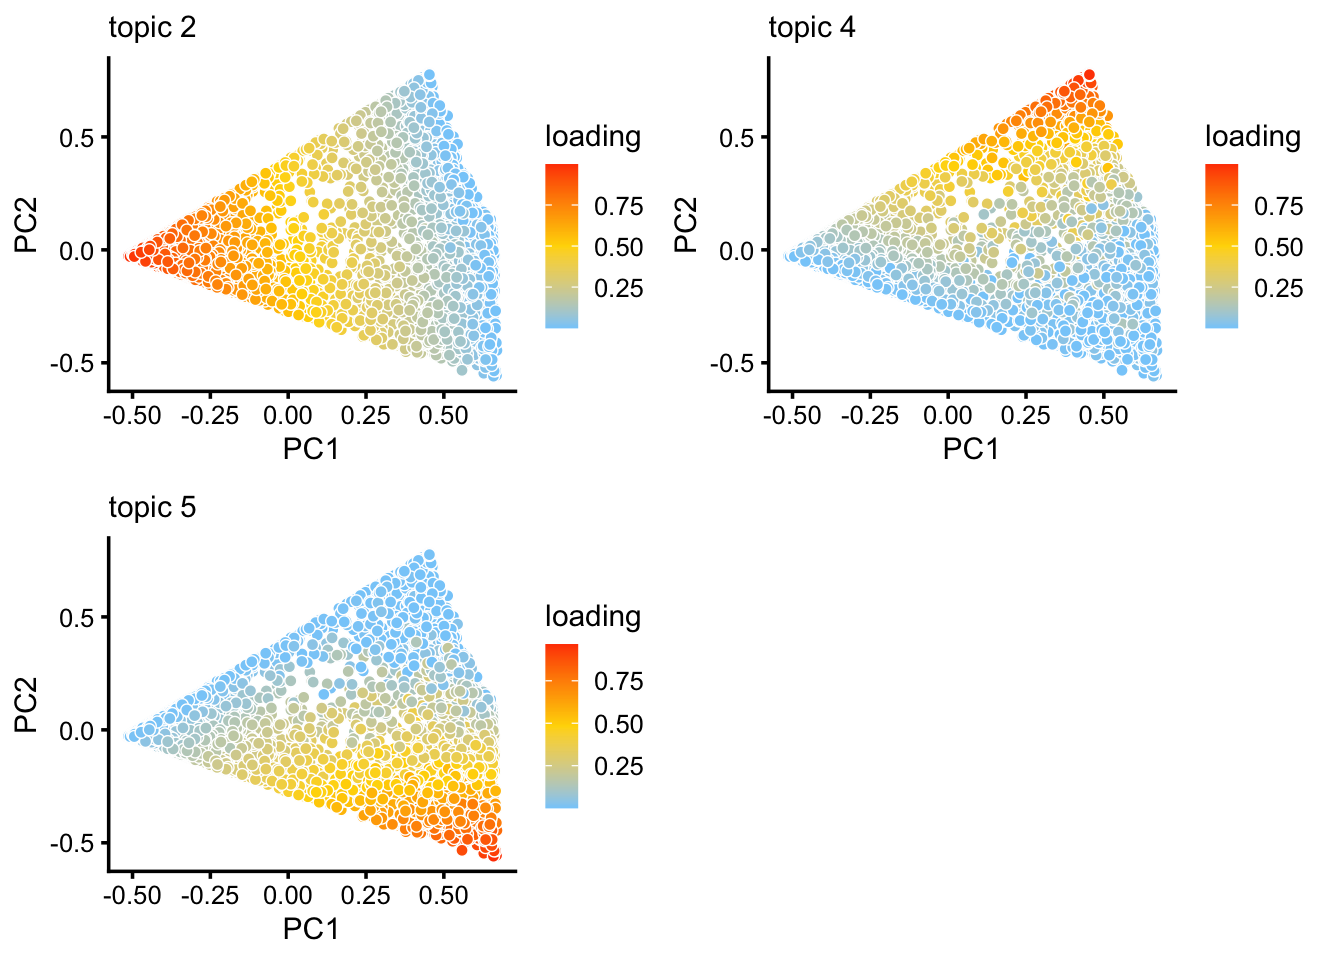
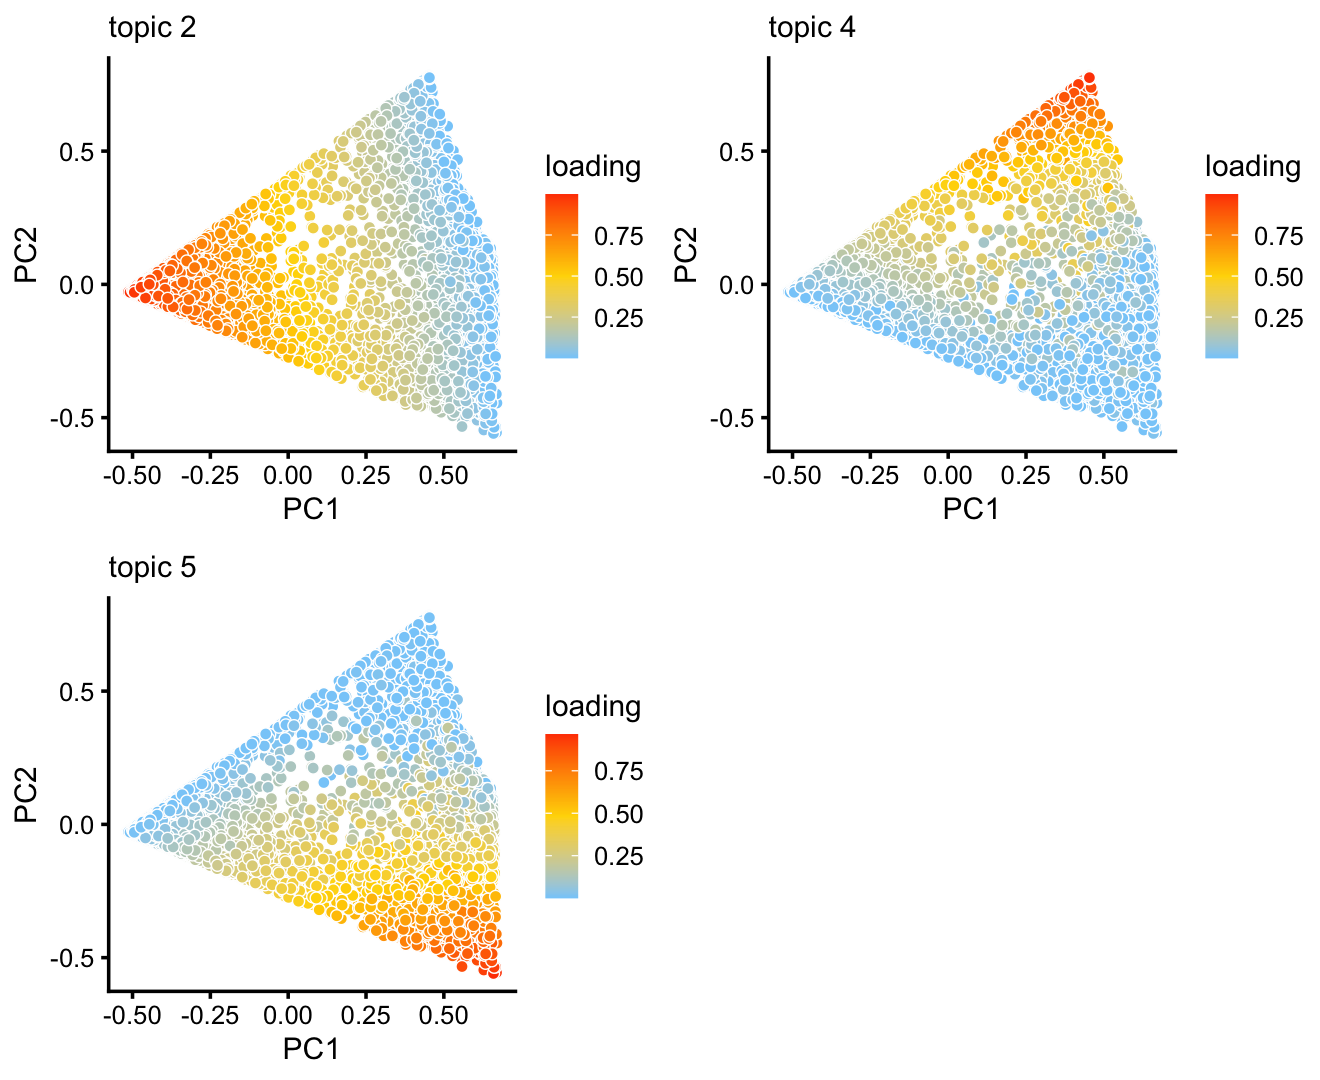
Added B+C cluster to clustering of droplet data, and added plot showing connection between topic 4 and Krt13 expression.

diff --git a/docs/clusters_droplet.html b/docs/clusters_droplet.html
@@ -323,7 +323,7 @@ $(document).ready(function () {
 <div class="tab-content">
 <div id="summary" class="tab-pane fade in active">
 <p>
-<strong>Last updated:</strong> 2020-09-20
+<strong>Last updated:</strong> 2020-09-21
 </p>
 <p>
 <strong>Checks:</strong> <span class="glyphicon glyphicon-ok text-success" aria-hidden="true"></span> 7 <span class="glyphicon glyphicon-exclamation-sign text-danger" aria-hidden="true"></span> 0
@@ -414,16 +414,16 @@ This reproducible <a href="http://rmarkdown.rstudio.com">R Markdown</a> analysis
 <div class="panel panel-default">
 <div class="panel-heading">
 <p class="panel-title">
-<a data-toggle="collapse" data-parent="#workflowr-checks" href="#strongRepositoryversionstrongahrefhttpsgithubcomstephenslabsinglecelltopicstreeb7d1acccebb866981644a966589476316006edd0targetblankb7d1acca"> <span class="glyphicon glyphicon-ok text-success" aria-hidden="true"></span> <strong>Repository version:</strong> <a href="https://github.com/stephenslab/single-cell-topics/tree/b7d1acccebb866981644a966589476316006edd0" target="_blank">b7d1acc</a> </a>
+<a data-toggle="collapse" data-parent="#workflowr-checks" href="#strongRepositoryversionstrongahrefhttpsgithubcomstephenslabsinglecelltopicstree69d1f0acfefba68a060ac2cf92be177a66c3e5e2targetblank69d1f0aa"> <span class="glyphicon glyphicon-ok text-success" aria-hidden="true"></span> <strong>Repository version:</strong> <a href="https://github.com/stephenslab/single-cell-topics/tree/69d1f0acfefba68a060ac2cf92be177a66c3e5e2" target="_blank">69d1f0a</a> </a>
 </p>
 </div>
[2 lines of base64/hex data omitted]
 <div class="panel-body">
 <p>
 Great! You are using Git for version control. Tracking code development and connecting the code version to the results is critical for reproducibility.
 </p>
 <p>
-The results in this page were generated with repository version <a href="https://github.com/stephenslab/single-cell-topics/tree/b7d1acccebb866981644a966589476316006edd0" target="_blank">b7d1acc</a>. See the <em>Past versions</em> tab to see a history of the changes made to the R Markdown and HTML files.
+The results in this page were generated with repository version <a href="https://github.com/stephenslab/single-cell-topics/tree/69d1f0acfefba68a060ac2cf92be177a66c3e5e2" target="_blank">69d1f0a</a>. See the <em>Past versions</em> tab to see a history of the changes made to the R Markdown and HTML files.
 </p>
 <p>
 Note that you need to be careful to ensure that all relevant files for the analysis have been committed to Git prior to generating the results (you can use <code>wflow_publish</code> or <code>wflow_git_commit</code>). workflowr only checks the R Markdown file, but you know if there are other scripts or data files that it depends on. Below is the status of the Git repository when the results were generated:
@@ -442,9 +442,6 @@ Ignored files:
     Ignored:    output/pbmc-purified/rds/
     Ignored:    output/pulseseq/fits-pulseseq.RData
     Ignored:    output/pulseseq/rds/
-
-Untracked files:
-    Untracked:  analysis/clustering-droplet.rds
 
 </code></pre>
 <p>
@@ -483,6 +480,57 @@ Message
 </tr>
 </thead>
 <tbody>
+<tr>
+<td>
+Rmd
+</td>
+<td>
+<a href="https://github.com/stephenslab/single-cell-topics/blob/69d1f0acfefba68a060ac2cf92be177a66c3e5e2/analysis/clusters_droplet.Rmd" target="_blank">69d1f0a</a>
+</td>
+<td>
+Peter Carbonetto
+</td>
+<td>
+2020-09-21
+</td>
+<td>
+workflowr::wflow_publish(“clusters_droplet.Rmd”)
+</td>
+</tr>
+<tr>
+<td>
+Rmd
+</td>
+<td>
+<a href="https://github.com/stephenslab/single-cell-topics/blob/e2a807184032d94632431f14de8aeda1dd51637a/analysis/clusters_droplet.Rmd" target="_blank">e2a8071</a>
+</td>
+<td>
+Peter Carbonetto
+</td>
+<td>
+2020-09-20
+</td>
+<td>
+Saved new clustering-droplet.rds.
+</td>
+</tr>
+<tr>
+<td>
+html
+</td>
+<td>
+<a href="https://rawcdn.githack.com/stephenslab/single-cell-topics/b5e1a7e1b9f1357e79255b0d1fe780e995036c03/docs/clusters_droplet.html" target="_blank">b5e1a7e</a>
+</td>
+<td>
+Peter Carbonetto
+</td>
+<td>
+2020-09-20
+</td>
+<td>
+Fixed up Structure plot in clusters_droplet analysis.
+</td>
+</tr>
 <tr>
 <td>
 Rmd
@@ -669,11 +717,11 @@ library(cowplot)
 source(&quot;../code/plots.R&quot;)</code></pre>
 <div id="load-data-and-results" class="section level2">
 <h2>Load data and results</h2>
-<p>Load the droplet data. The UMI counts are not needed for this analysis.</p>
-<pre class="r"><code>load(&quot;../data/droplet.RData&quot;)
-rm(counts)</code></pre>
+<p>Load the droplet data.</p>
+<pre class="r"><code>load(&quot;../data/droplet.RData&quot;)</code></pre>
 <p>Load the <span class="math inline">\(k = 7\)</span> Poisson NMF model fit.</p>
 <pre class="r"><code>fit &lt;- readRDS(&quot;../output/droplet/rds/fit-droplet-scd-ex-k=7.rds&quot;)$fit</code></pre>
+<p><em>Add text here.</em></p>
 </div>
 <div id="identify-clusters-from-principal-components" class="section level2">
 <h2>Identify clusters from principal components</h2>
@@ -840,7 +888,7 @@ Peter Carbonetto
 </table>
 </div>
 </div>
-<p><em>Add text here.</em></p>
+<p>The variation in PCs 1 and 2 is mostly produced by topics 2, 4 and 5.</p>
 <pre class="r"><code>p9 &lt;- pca_plot(fit2,pcs = 1:2,k = c(2,4,5))
 print(p9)</code></pre>
 <p><img src="figure/clusters_droplet.Rmd/clustering-5-1.png" width="660" style="display: block; margin: auto;" /></p>
@@ -868,6 +916,17 @@ Date
 <tbody>
 <tr>
 <td>
+<a href="https://github.com/stephenslab/single-cell-topics/blob/b5e1a7e1b9f1357e79255b0d1fe780e995036c03/docs/figure/clusters_droplet.Rmd/clustering-5-1.png" target="_blank">b5e1a7e</a>
+</td>
+<td>
+Peter Carbonetto
+</td>
+<td>
+2020-09-20
+</td>
+</tr>
+<tr>
+<td>
 <a href="https://github.com/stephenslab/single-cell-topics/blob/417202458ee4055297b95a2ea3994a867c13866f/docs/figure/clusters_droplet.Rmd/clustering-5-1.png" target="_blank">4172024</a>
 </td>
 <td>
@@ -881,29 +940,27 @@ Peter Carbonetto
 </table>
 </div>
 </div>
-<p>We label the three more-or-less distinct subclusters as B, C and H, and assign the remaining samples to the background cluster.</p>
-<pre class="r"><code>pca &lt;- prcomp(fit2$L)$x
-y   &lt;- rep(&quot;U&quot;,nrow(pca))
-pc1 &lt;- pca[,1]
-pc2 &lt;- pca[,2]
-y[pc1 &lt; 0.1] &lt;- &quot;B&quot;
-y[pc1 &gt; 0.4 &amp; pc2 &lt; 0.45] &lt;- &quot;C&quot;
-y[pc2 &gt; 0.55] &lt;- &quot;H&quot;
-x[rows] &lt;- y</code></pre>
-<p>In summary, we have subdivided the droplet data into 7 subsets, including a background cluster (U).</p>
-<pre class="r"><code>colors &lt;- c(&quot;royalblue&quot;,&quot;forestgreen&quot;,&quot;firebrick&quot;,&quot;gold&quot;,&quot;turquoise&quot;,
-            &quot;darkorange&quot;,&quot;gainsboro&quot;)
-p10 &lt;- labeled_pca_plot(fit,1:2,x,colors,font_size = 8)
-p11 &lt;- labeled_pca_plot(fit,3:4,x,colors,font_size = 8)
-p12 &lt;- labeled_pca_plot(fit,5:6,x,colors,font_size = 8)
-plot_grid(p10,p11,p12,nrow = 1,ncol = 3)</code></pre>
-<p><img src="figure/clusters_droplet.Rmd/clustering-7-1.png" width="960" style="display: block; margin: auto;" /></p>
+<p>Topic 4 in particular corresponds closely to expression of <em>Krt13</em> which was identified as being uniquely expressed by transitional “hillock” cells.</p>
+<pre class="r"><code>pca  &lt;- prcomp(fit2$L)$x
+pc1  &lt;- pca[,1]
+pc2  &lt;- pca[,2]
+pdat &lt;- data.frame(PC1   = pc1,
+                   PC2   = pc2,
+                   Krt13 = log10(counts[rows,&quot;Krt13&quot;]))
+p10 &lt;- ggplot(pdat,aes(x = PC1,y = PC2,fill = Krt13)) +
+  geom_point(shape = 21,color = &quot;white&quot;,size = 1.25) +
+  scale_fill_gradientn(colors = c(&quot;skyblue&quot;,&quot;gold&quot;,&quot;darkorange&quot;,&quot;magenta&quot;),
+                        na.value = &quot;lightskyblue&quot;) +
+  theme_cowplot(font_size = 10) +
+  labs(fill = &quot;log10 expression level&quot;)
+print(p10)</code></pre>
+<p><img src="figure/clusters_droplet.Rmd/clustering-6-1.png" width="420" style="display: block; margin: auto;" /></p>
 <p>
-<button type="button" class="btn btn-default btn-xs btn-workflowr btn-workflowr-fig" data-toggle="collapse" data-target="#fig-clustering-7-1">
-Past versions of clustering-7-1.png
+<button type="button" class="btn btn-default btn-xs btn-workflowr btn-workflowr-fig" data-toggle="collapse" data-target="#fig-clustering-6-1">
+Past versions of clustering-6-1.png
 </button>
 </p>
-<div id="fig-clustering-7-1" class="collapse">
+<div id="fig-clustering-6-1" class="collapse">
 <div class="table-responsive">
 <table class="table table-condensed table-hover">
 <thead>
@@ -922,7 +979,7 @@ Date
 <tbody>
 <tr>
 <td>
-<a href="https://github.com/stephenslab/single-cell-topics/blob/417202458ee4055297b95a2ea3994a867c13866f/docs/figure/clusters_droplet.Rmd/clustering-7-1.png" target="_blank">4172024</a>
+<a href="https://github.com/stephenslab/single-cell-topics/blob/417202458ee4055297b95a2ea3994a867c13866f/docs/figure/clusters_droplet.Rmd/clustering-6-1.png" target="_blank">4172024</a>
 </td>
 <td>
 Peter Carbonetto
@@ -931,43 +988,80 @@ Peter Carbonetto
 2020-09-20
 </td>
 </tr>
+<tr>
+<td>
+<a href="https://github.com/stephenslab/single-cell-topics/blob/5361fdfce874122596ccf2e97e7c00b8379f3e0b/docs/figure/clusters_droplet.Rmd/clustering-6-1.png" target="_blank">5361fdf</a>
+</td>
+<td>
+Peter Carbonetto
+</td>
+<td>
+2020-09-19
+</td>
+</tr>
+<tr>
+<td>
+<a href="https://github.com/stephenslab/single-cell-topics/blob/311b4e8f0de36c046e249e00f893c8a2b7721f81/docs/figure/clusters_droplet.Rmd/clustering-6-1.png" target="_blank">311b4e8</a>
+</td>
+<td>
+Peter Carbonetto
+</td>
+<td>
+2020-09-19
+</td>
+</tr>
 </tbody>
 </table>
 </div>
 </div>
+<p>We label the three more-or-less distinct subclusters as B, C and H, and assign the remaining “in between” data points to a new “background cluster”, B+C.</p>
+<pre class="r"><code>y   &lt;- rep(&quot;B+C&quot;,nrow(pca))
+y[pc1 &lt; 0.1] &lt;- &quot;B&quot;
+y[pc1 &gt; 0.4 &amp; pc2 &lt; 0.45] &lt;- &quot;C&quot;
+y[pc2 &gt; 0.55] &lt;- &quot;H&quot;
+x[rows] &lt;- y</code></pre>
+<p>In summary, we have subdivided the droplet data into 8 subsets.</p>
+<pre class="r"><code>samples$cluster &lt;- factor(x,c(&quot;B&quot;,&quot;C&quot;,&quot;B+C&quot;,&quot;H&quot;,&quot;Cil&quot;,&quot;T+N&quot;,&quot;G&quot;,&quot;U&quot;))
+cluster_colors &lt;- c(&quot;royalblue&quot;,&quot;slategray&quot;,&quot;forestgreen&quot;,&quot;firebrick&quot;,&quot;gold&quot;,
+                    &quot;turquoise&quot;,&quot;darkorange&quot;,&quot;gainsboro&quot;)
+p11 &lt;- labeled_pca_plot(fit,1:2,x,cluster_colors,font_size = 8)
+p12 &lt;- labeled_pca_plot(fit,3:4,x,cluster_colors,font_size = 8)
+p13 &lt;- labeled_pca_plot(fit,5:6,x,cluster_colors,font_size = 8)
+plot_grid(p11,p12,p13,nrow = 1,ncol = 3)</code></pre>
+<p><img src="figure/clusters_droplet.Rmd/clustering-8-1.png" width="960" style="display: block; margin: auto;" /></p>
 <p>The clusters identified here correspond well to the Montoro <em>et al</em> (2018) clustering, with some exceptions (e.g., we do not identify an ionocytes cluster, and the neuroendocrine and tuft cells are included in the same cluster).</p>
-<pre class="r"><code>samples$cluster &lt;- factor(x,c(&quot;B&quot;,&quot;C&quot;,&quot;H&quot;,&quot;Cil&quot;,&quot;T+N&quot;,&quot;G&quot;,&quot;U&quot;))
-with(samples,table(tissue,cluster))
+<pre class="r"><code>with(samples,table(tissue,cluster))
 #                 cluster
-# tissue              B    C    H  Cil  T+N    G    U
-#   Basal          3682   16    5    0    0    0  142
-#   Ciliated          1   13    0  371    5    0   35
-#   Club             93 1878  192    0    0    2  413
-#   Goblet            2   20    0    0    0   42    1
-#   Ionocyte          9    0    0    0    1    1   15
-#   Neuroendocrine   27    4    0    0   51    0   14
-#   Tuft             27    5    0    1  111    2   12</code></pre>
+# tissue              B    C  B+C    H  Cil  T+N    G    U
+#   Basal          3682   16  142    5    0    0    0    0
+#   Ciliated          1   13    4    0  371    5    0   31
+#   Club             93 1878  411  192    0    0    2    2
+#   Goblet            2   20    1    0    0    0   42    0
+#   Ionocyte          9    0    1    0    0    1    1   14
+#   Neuroendocrine   27    4    6    0    0   51    0    8
+#   Tuft             27    5    5    0    1  111    2    7</code></pre>
 </div>
 <div id="structure-plot" class="section level2">
 <h2>Structure plot</h2>
-<p><em>Add text here.</em></p>
+<p>The structure plot summarizes the topic proportions in each of these 8 subsets:</p>
 <pre class="r"><code>set.seed(1)
 topic_colors &lt;- c(&quot;gold&quot;,&quot;royalblue&quot;,&quot;salmon&quot;,&quot;turquoise&quot;,&quot;olivedrab&quot;,
                   &quot;firebrick&quot;,&quot;forestgreen&quot;)
 topics &lt;- c(3,4,5,1,7,2,6)
 rows &lt;- sort(c(sample(which(samples$cluster == &quot;B&quot;),800),
                sample(which(samples$cluster == &quot;C&quot;),800),
+               which(samples$cluster == &quot;B+C&quot;),
                which(samples$cluster == &quot;H&quot;),
                which(samples$cluster == &quot;Cil&quot;),
                which(samples$cluster == &quot;T+N&quot;),
                which(samples$cluster == &quot;G&quot;),
                which(samples$cluster == &quot;U&quot;)))
-p13 &lt;- structure_plot(select(poisson2multinom(fit),loadings = rows),
+p14 &lt;- structure_plot(select(poisson2multinom(fit),loadings = rows),
                       grouping = samples[rows,&quot;cluster&quot;],
                       topics = topics,colors = topic_colors[topics],
-                      perplexity = c(70,70,30,50,30,12,50),
+                      perplexity = c(70,70,30,30,50,30,12,18),
                       n = Inf,gap = 30,num_threads = 4,verbose = FALSE)
-print(p13)</code></pre>
+print(p14)</code></pre>
 <p><img src="figure/clusters_droplet.Rmd/structure-plot-1.png" width="960" style="display: block; margin: auto;" /></p>
 <p>
 <button type="button" class="btn btn-default btn-xs btn-workflowr btn-workflowr-fig" data-toggle="collapse" data-target="#fig-structure-plot-1">
@@ -993,6 +1087,17 @@ Date
 <tbody>
 <tr>
 <td>
+<a href="https://github.com/stephenslab/single-cell-topics/blob/b5e1a7e1b9f1357e79255b0d1fe780e995036c03/docs/figure/clusters_droplet.Rmd/structure-plot-1.png" target="_blank">b5e1a7e</a>
+</td>
+<td>
+Peter Carbonetto
+</td>
+<td>
+2020-09-20
+</td>
+</tr>
+<tr>
+<td>
 <a href="https://github.com/stephenslab/single-cell-topics/blob/417202458ee4055297b95a2ea3994a867c13866f/docs/figure/clusters_droplet.Rmd/structure-plot-1.png" target="_blank">4172024</a>
 </td>
 <td>
@@ -1006,6 +1111,7 @@ Peter Carbonetto
 </table>
 </div>
 </div>
+<p>TO DO: Add more notes about the structure of these data based on the PCA plots and the structure plot.</p>
 <p>TO DO: Show PCA plots suggesting additional hetergeneity in C cluster.</p>
 </div>
 <div id="save-results" class="section level2">
